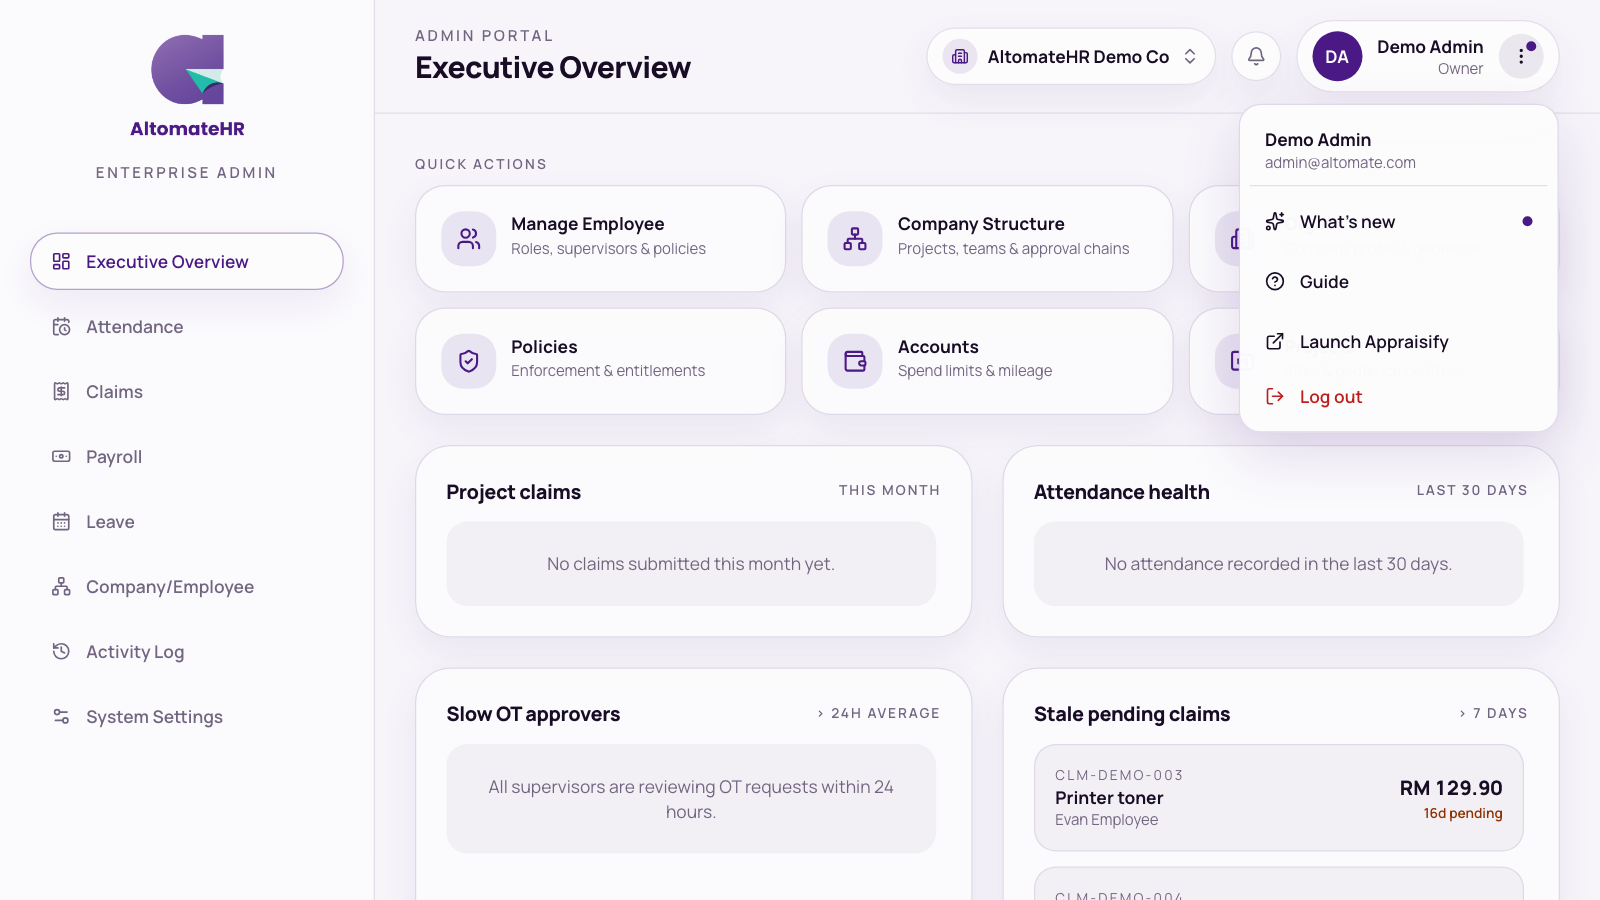
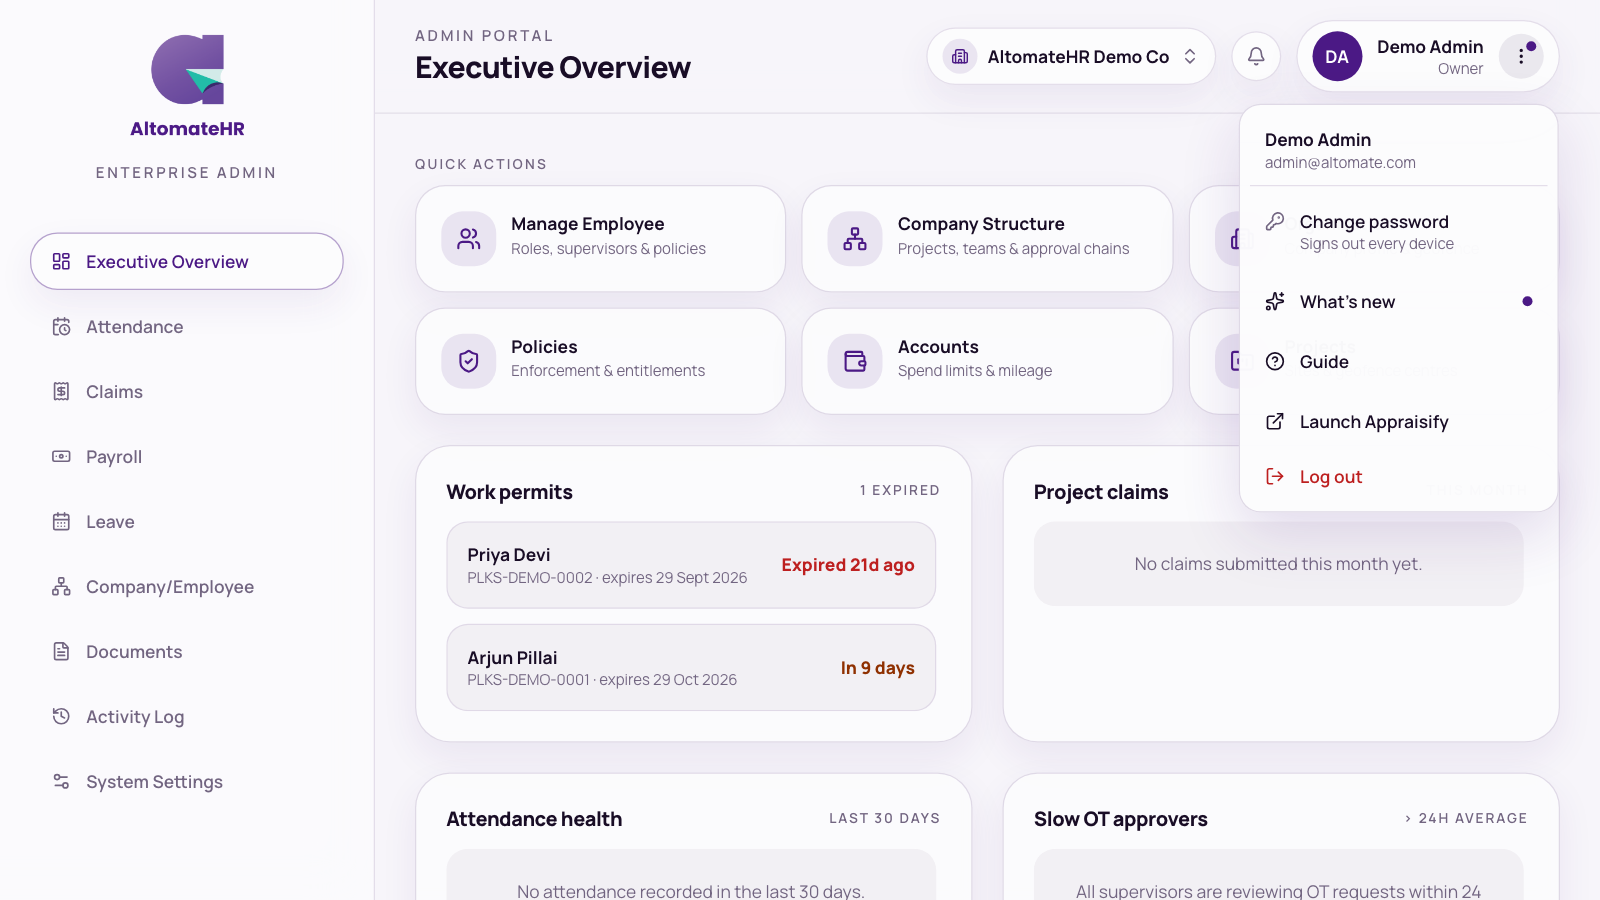
docs: what's new and admin guide for Change password in the admin menu

diff --git a/user-guide/altomatehr-admin-guide.html b/user-guide/altomatehr-admin-guide.html
@@ -7,7 +7,7 @@
   Bookmark: this page is correct as of this commit on main. The next update
   re-checks every user-visible change after it — from any branch — then
   moves it forward.
-  user-guide-covered-up-to: ab3688c
+  user-guide-covered-up-to: ab8f7bb
 -->
 <html lang="en">
 <head>
@@ -364,6 +364,10 @@
     <ul>
       <li><strong>Forgot your password?</strong> — enter your work email, and a <strong>6-digit code</strong> is
         emailed to you. Enter it with a new password (at least 8 characters).</li>
+      <li><strong>Change your own password</strong> — click your name at the top right, then the ⋮ button, and choose
+        <span class="btn-name">Change password</span>. Enter your current password, then a new one (at least 8
+        characters) and confirm it. This signs you out of every device, including this one — sign back in with the
+        new password. If you signed in through Altomate, your password is managed there, so the option isn't shown.</li>
       <li><strong>Coming from Altomate?</strong> — the "open altomate HR" button signs you straight in. If that link
         has expired or was already used, the sign-in page says so; go back and press it again. Because your account
         is managed in Altomate, <span class="btn-name">New company</span> and <span class="btn-name">Log out</span>
@@ -389,7 +393,7 @@
       <li>The company switcher — if you look after several companies, switch here. <span class="btn-name">New
         company</span> creates one with you as its owner.</li>
       <li>The bell — requests and decisions as they happen, with <span class="btn-name">Mark all read</span></li>
-      <li>The ⋮ menu — push notifications (if your browser supports them), <span class="btn-name">What's new</span> (our release notes, with a dot on
+      <li>The ⋮ menu — <span class="btn-name">Change password</span> (not shown if you signed in through Altomate), push notifications (if your browser supports them), <span class="btn-name">What's new</span> (our release notes, with a dot on
         the menu until you've read the latest), <span class="btn-name">Guide</span> (opens this guide in a new tab),
         <span class="btn-name">Launch Appraisify</span> (opens Appraisify in a new tab, so AltomateHR stays open; if your
         browser blocks the new tab, or AltomateHR is installed as a home-screen app, it opens in the same tab instead), and <span class="btn-name">Log out</span></li>
@@ -406,7 +410,7 @@
           <p class="shot-cap">Notifications bell</p>
         </div>
         <div class="shot-item">
-          <img src="shots/admin/layout-menu.png" alt="The ⋮ account menu: What&#x27;s new, Guide, Launch Appraisify, Log out" loading="lazy">
+          <img src="shots/admin/layout-menu.png" alt="The ⋮ account menu: Change password, What&#x27;s new, Guide, Launch Appraisify, Log out" loading="lazy">
           <p class="shot-cap">⋮ menu</p>
         </div>
       </div>

diff --git a/frontend/src/features/whats-new/lib/entries.ts b/frontend/src/features/whats-new/lib/entries.ts
@@ -8,7 +8,7 @@
 //
 // Bookmark: the last commit on main these notes already cover. The next update
 // writes up everything after it — from any branch — then moves it forward.
-// whats-new-covered-up-to: ab3688c
+// whats-new-covered-up-to: ab8f7bb
 
 export type WhatsNewEntry = {
   /** Release day, yyyy-MM-dd (Malaysia time). Also what "unread" compares. */
@@ -21,6 +21,15 @@ export type WhatsNewEntry = {
 };
 
 export const WHATS_NEW: WhatsNewEntry[] = [
+  {
+    date: "2026-10-20",
+    new: [
+      "Admins: you can now change your own password from the account menu (⋮) in the admin portal. Changing it signs you out on every device. Not shown if you sign in through Altomate.",
+    ],
+    fixed: [
+      "Changing your password or switching company no longer fails with a 401 error after you've been away a while. Your sign-in now renews quietly in the background.",
+    ],
+  },
   {
     date: "2026-10-19",
     new: [

diff --git a/user-guide/altomatehr-employee-guide.html b/user-guide/altomatehr-employee-guide.html
@@ -7,7 +7,7 @@
   Bookmark: this page is correct as of this commit on main. The next update
   re-checks every user-visible change after it — from any branch — then
   moves it forward.
-  user-guide-covered-up-to: ab3688c
+  user-guide-covered-up-to: ab8f7bb
 -->
 <html lang="en">
 <head>
